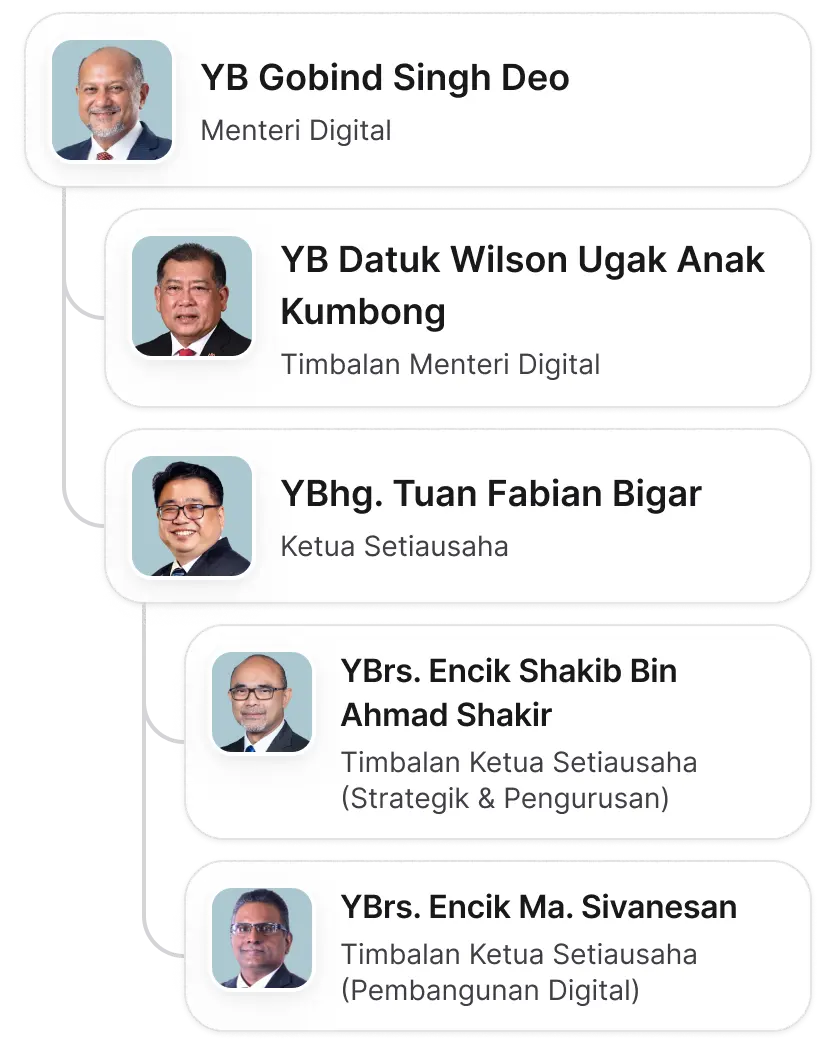
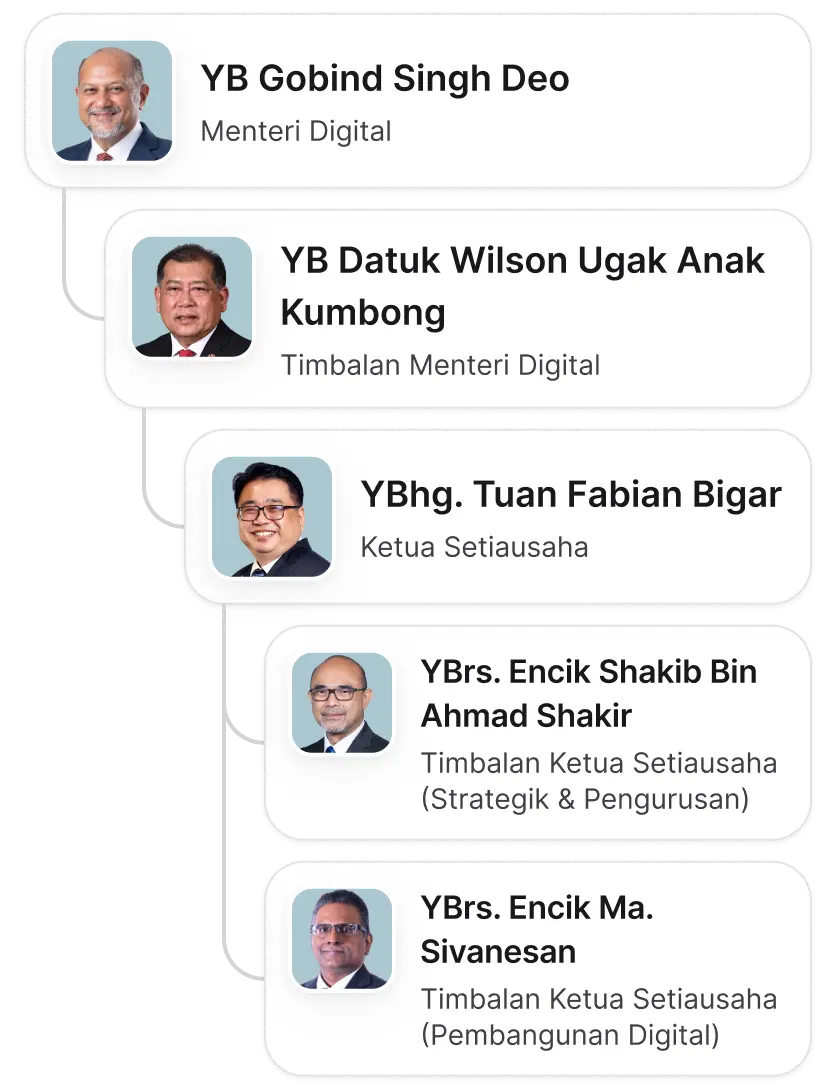
change org chart img

diff --git a/src/components/ui/data-table.tsx b/src/components/ui/data-table.tsx
@@ -38,6 +38,7 @@ import { FunnelIcon } from "@heroicons/react/24/solid";
 import ReadMore from "./read-more";
 import { useTranslations } from "next-intl";
 import Paginate from "@/components/ui/pagination";
+import ColumnExpand from "@/icons/column-expand";
 
 interface DataTableProps<TData, TValue> {
   className?: string;
@@ -74,8 +75,6 @@ const DataTable = <TData, TValue>({
   const [rowSelection, setRowSelection] = useState<RowSelectionState>({});
   const [columnFilters, setColumnFilters] = useState<ColumnFiltersState>([]);
 
-  const { replace } = useRouter();
-  const params = useParams();
   const [pagination, setPagination] = useState({
     pageIndex: !!paginate ? paginate.pageIndex : 0,
     pageSize: !!paginate ? paginate.pageSize : 10,
@@ -194,6 +193,8 @@ const DataTable = <TData, TValue>({
                     colSpan={header.colSpan}
                     className={cn(
                       "group relative",
+                      header.column.columnDef.meta?.enableReadMore &&
+                        "border-b-2 hover:border-b-brand-300",
                       header.column.columnDef.meta?.type! === "number" &&
                         "text-right",
                       header.column.columnDef.meta?.headerClass,
@@ -211,16 +212,13 @@ const DataTable = <TData, TValue>({
                           )}
                         </div>
                         <div className="flex items-center gap-1">
+                          {header.column.columnDef.meta?.enableReadMore && (
+                            <ColumnExpand className="hidden h-4.5 w-6 cursor-pointer rounded-lg border border-brand-200 group-hover:block" />
+                          )}
                           {{
                             desc: <BarsArrowDownIcon className="h-3 w-3" />,
                             asc: <BarsArrowUpIcon className="h-3 w-3" />,
                           }[header.column.getIsSorted() as string] ?? null}
-                          {/* {header.column.getIsFiltered() ? (
-                            <FunnelIcon className="h-3 w-3" />
-                          ) : null} */}
-                          {/* {filterable && header.column.getCanFilter() ? (
-                            <TableFilterSort table={table} header={header} />
-                          ) : null} */}
                         </div>
                       </div>
                     )}

diff --git a/src/components/direktori/main.tsx b/src/components/direktori/main.tsx
@@ -73,7 +73,7 @@ const DirektoriMain: FC<DirektoriMainProps> = ({ list, locale }) => {
       meta: {
         type: "text",
         editable: false,
-        enableReadMore: true,
+        // enableReadMore: true,
         maxChar: 60,
       },
     },
@@ -101,9 +101,10 @@ const DirektoriMain: FC<DirektoriMainProps> = ({ list, locale }) => {
   const mobileColumn = [
     {
       header: "",
-      accessorKey: "bhg",
-      accessorFn: (item: StaffDirectory) =>
-        typeof item.id_bhg !== "string" && item.id_bhg.bhg,
+      id: "bhg",
+      accessorKey: "id_bhg.bhg",
+      // accessorFn: (item: StaffDirectory) =>
+      //   typeof item.id_bhg !== "string" && item.id_bhg.bhg,
       cell: (info: any) => {
         const { id_bhg, emel, gred, staff_id, jawatan, nama, telefon } = (
           info as Cell<StaffDirectory, unknown>
@@ -183,6 +184,7 @@ const DirektoriMain: FC<DirektoriMainProps> = ({ list, locale }) => {
       return matchesQuery;
     });
   }, [list, searchQuery]);
+  console.log(data);
 
   const searchArray = (searchQuery: string) => {
     const params = new URLSearchParams(searchParams);

diff --git a/src/icons/column-expand.tsx b/src/icons/column-expand.tsx
@@ -1,0 +1,41 @@
+import { cn } from "@/lib/utils";
+
+export default function ColumnExpand({ ...props }) {
+  const { className, ...rest } = props;
+  return (
+    <svg
+      width="20"
+      height="20"
+      viewBox="0 0 20 20"
+      fill="none"
+      xmlns="http://www.w3.org/2000/svg"
+      className={cn("stroke-brand-600", className)}
+      {...rest}
+    >
+      <path
+        d="M6 6L2 10L6 14"
+        stroke-width="1.5"
+        stroke-linecap="round"
+        stroke-linejoin="round"
+      />
+      <path
+        d="M14 14L18 10L14 6"
+        stroke-width="1.5"
+        stroke-linecap="round"
+        stroke-linejoin="round"
+      />
+      <path
+        d="M2 10L8 10"
+        stroke-width="1.5"
+        stroke-linecap="round"
+        stroke-linejoin="round"
+      />
+      <path
+        d="M12 10H18"
+        stroke-width="1.5"
+        stroke-linecap="round"
+        stroke-linejoin="round"
+      />
+    </svg>
+  );
+}

diff --git a/src/icons/column-collapse.tsx b/src/icons/column-collapse.tsx
@@ -1,0 +1,41 @@
+export default function ColumnCollapse({ ...props }) {
+  return (
+    <svg
+      width="20"
+      height="20"
+      viewBox="0 0 20 20"
+      fill="none"
+      xmlns="http://www.w3.org/2000/svg"
+      {...props}
+    >
+      <path
+        d="M16 6L12 10L16 14"
+        stroke="#18181B"
+        stroke-width="1.5"
+        stroke-linecap="round"
+        stroke-linejoin="round"
+      />
+      <path
+        d="M4 14L8 10L4 6"
+        stroke="#18181B"
+        stroke-width="1.5"
+        stroke-linecap="round"
+        stroke-linejoin="round"
+      />
+      <path
+        d="M12 10L18 10"
+        stroke="#18181B"
+        stroke-width="1.5"
+        stroke-linecap="round"
+        stroke-linejoin="round"
+      />
+      <path
+        d="M2 10H8"
+        stroke="#18181B"
+        stroke-width="1.5"
+        stroke-linecap="round"
+        stroke-linejoin="round"
+      />
+    </svg>
+  );
+}

diff --git a/src/app/[locale]/profil-kementerian/page-component.tsx b/src/app/[locale]/profil-kementerian/page-component.tsx
@@ -85,7 +85,7 @@ const ProfilKementerianComponent: FC<ProfilKementerianProps> = ({
               {t("Info.Org.title")}
             </h2>
             <div className="hidden w-full justify-center md:flex">
-              <div className="relative h-[722px] w-[750px]">
+              <div className="relative h-[960px] w-[750px]">
                 {locale === "en-GB" && (
                   <Image
                     src={"/org/org-chart-en.webp"}
@@ -105,7 +105,7 @@ const ProfilKementerianComponent: FC<ProfilKementerianProps> = ({
               </div>
             </div>
             <div className="flex w-full justify-center md:hidden">
-              <div className="relative h-[510px] w-[394px]">
+              <div className="relative h-[532px] w-[394px]">
                 {locale === "en-GB" && (
                   <Image
                     src={"/org/org-chart-mobile-en.webp"}
